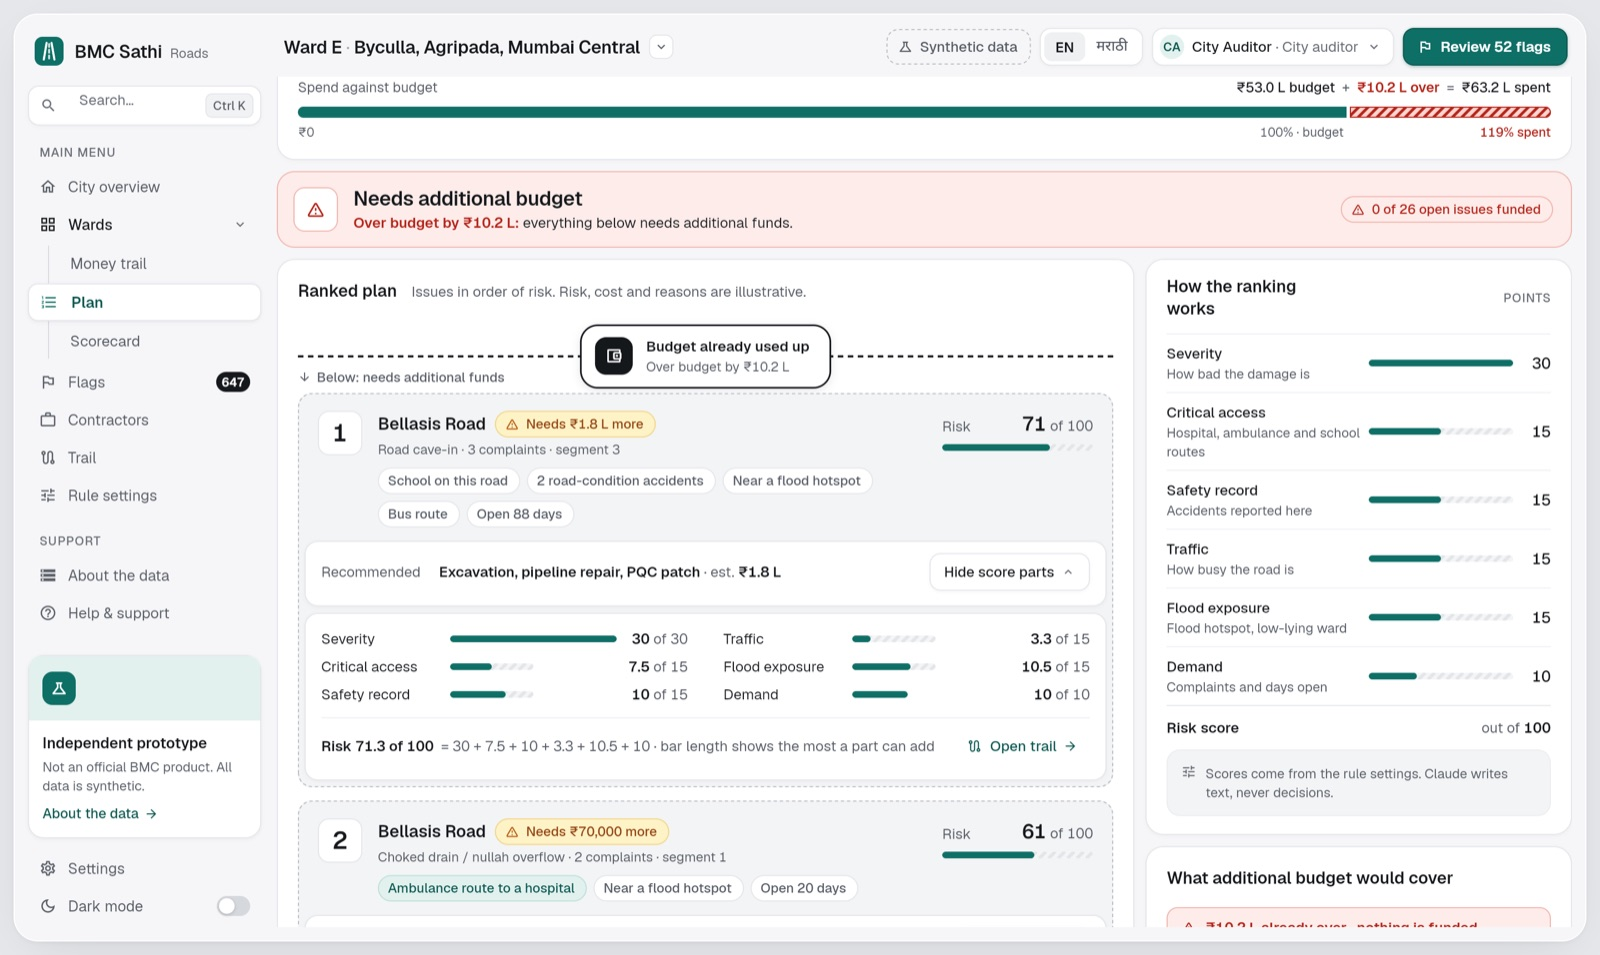
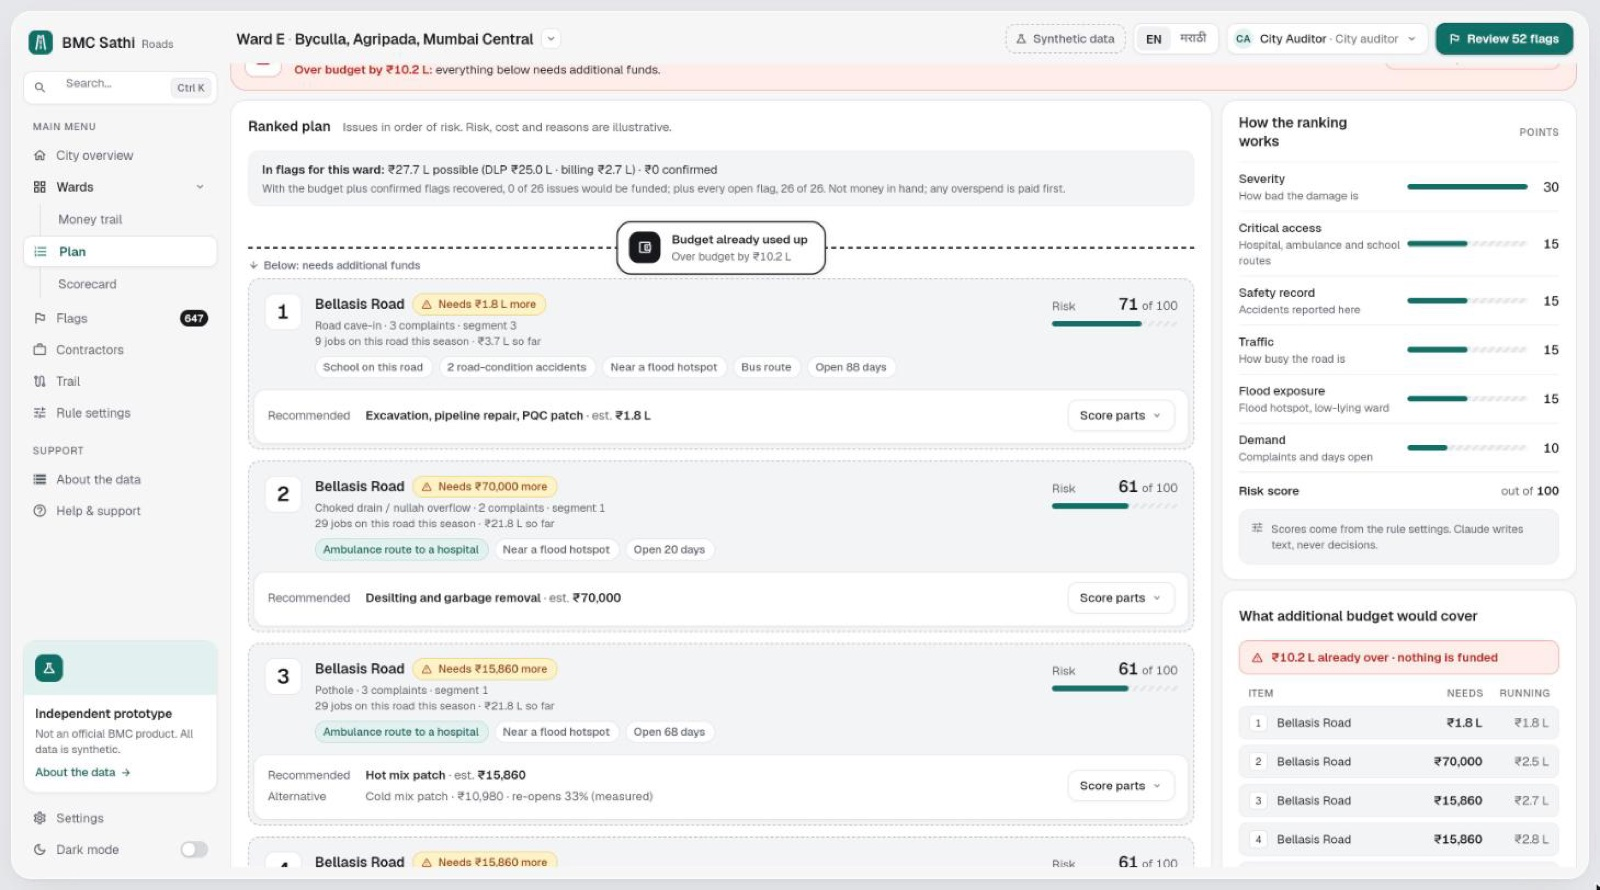
README: retake scorecard and plan screenshots with the five-feature screens

diff --git a/README.md b/README.md
@@ -171,13 +171,13 @@ flutter run -d web-server --web-port 5173 --web-hostname localhost \
 
    ![Flag queue with the double-billing evidence panel: two jobs on the same road, three days apart](docs/screenshots/flag-evidence.jpg)
 
-4. **Contractors**: three measures against similar jobs.
+4. **Contractors**: three measures against similar jobs. Speed counts the jobs that were assigned with enough time left, and shows what happened to the clock on the late ones.
 
-   ![Contractor scorecard](docs/screenshots/scorecard.jpg)
+   ![Contractor scorecard: on-time share when there was enough time left, late jobs by cause, and what re-opened fixes cost](docs/screenshots/scorecard.jpg)
 
-5. **Ward → Plan**: ranked open issues. Expand one to see how its risk score is made up.
+5. **Ward → Plan**: ranked open issues, with what the money in flags would fund if recovered. Expand an issue to see how its risk score is made up.
 
-   ![Next-rupee plan with a score breakdown](docs/screenshots/plan.jpg)
+   ![Next-rupee plan: money in flags for the ward, the budget line and the jobs already done on each road](docs/screenshots/plan.jpg)
 
 6. **Settings** (auditor): change a threshold or risk weight. Flags, scorecards and the plan update at once.
 
